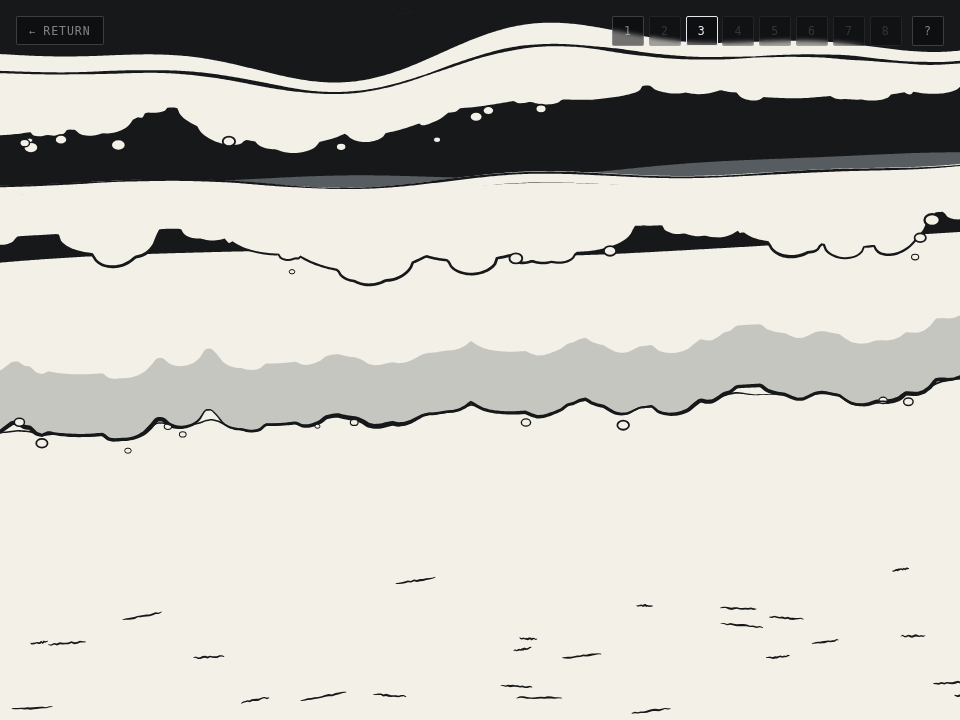
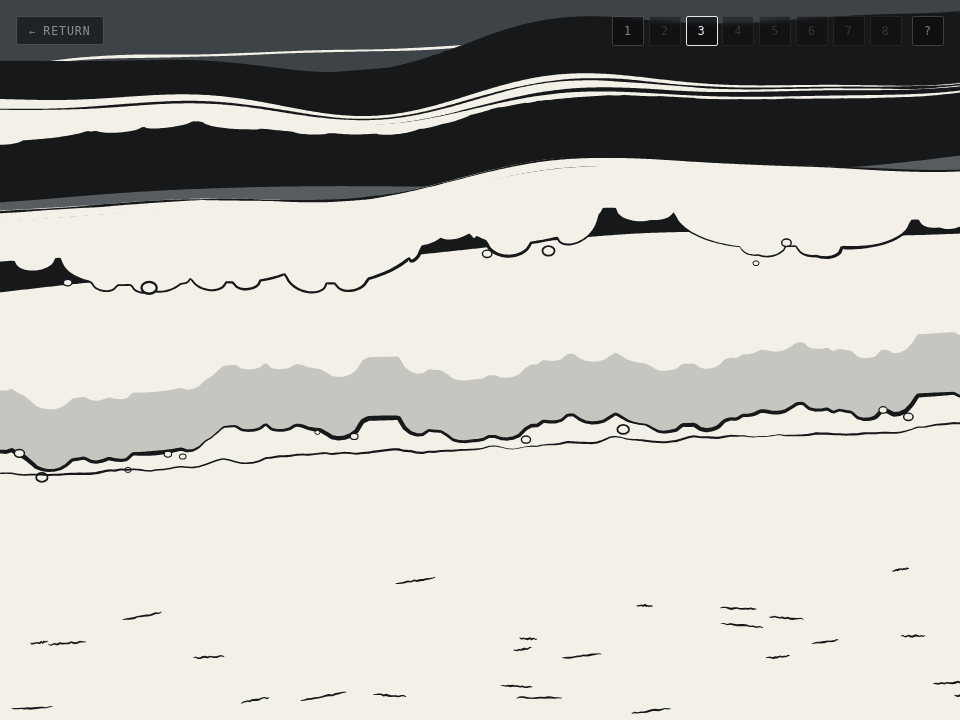
fix(docs): the composition table did not reproduce, and now it is an instrument
The figures in section 8 were quoted as exact and were not reproducible.
`scene.html` seeds from `Date.now()` when it is given no `?seed=`, so every
run is a different sea: the table read 44.7% ink against 67.8% on the run it
was written from, and 39.4 against 72.7 on the next.

`tools/shot-beach-break.mjs` is that measurement, promoted out of a session
scratch file and seeded. THREE SEEDS x 24 pumped moments each, with the RANGE
ACROSS SEEDS printed beside every mean, because one sea is one draw:

  BREAK_S            ink %             paper %          broken of 3.8
  [0.115, 0.020]    38.6 [37.5-39.8]  49.0 [44.8-53.4]      3.3   as it shipped
  [0.180, 0.085]    49.5 [48.5-50.8]  38.9 [34.6-42.3]      2.8
  [0.230, 0.135]    58.3 [56.9-59.4]  30.2 [26.1-33.1]      2.4
  [0.300, 0.205]    70.6 [69.5-72.3]  17.8 [15.2-19.5]      1.8   ships

The trend is far outside the spread, so the finding stands and the ruling's
two criteria still pull against each other by about the same amount. What was
wrong was the precision claimed for it. The three renders are re-taken from
seed 7, the first of the three the table averages, so the pictures and the
numbers are the same run.

It took two passes to get the sampling right and both are in the tool's own
header: the first read ONE moment and reported a 6-wave state against a
4-wave one, which is measuring which waves happened to be alive; the second
averaged 24 moments and still did not reproduce because nothing was seeded.
[…]

diff --git a/docs/beach-drawing-layer.md b/docs/beach-drawing-layer.md
@@ -346,15 +346,24 @@ predicted.
    linear in s between the break and the waterline — so **the foam region IS
    `[breakS, WATERLINE_S]`**. Moving the break shoreside shortens it in exactly
    the same proportion as it lowers the curl: the two are one dial, not two.
-   Measured over 24 pumped moments at 960x720, of the WAVE ZONE (top of frame
-   down to the waterline):
+   `node tools/shot-beach-break.mjs <dir>` is the instrument and it prints this
+   table. **SAMPLING: three seeds x 24 pumped moments each, at 960x720**, of
+   the WAVE ZONE (top of frame down to the waterline); the bracket is the
+   range across seeds.
 
-   | `BREAK_S` | curl at s | ink % | paper % | waves broken, of ~3.9 drawn |
+   | `BREAK_S` | curl at s | ink % | paper % | broken, of 3.8 drawn |
    |---|---|---|---|---|
-   | `[0.115, 0.020]` (as it shipped) | 0.202 | 44.7 | 47.7 | 3.3 |
-   | `[0.180, 0.085]` | 0.247 | 48.5 | 37.4 | 2.8 |
-   | `[0.230, 0.135]` | 0.297 | 62.4 | 30.3 | 2.6 |
-   | **`[0.300, 0.205]` (ships)** | **0.331** | **67.8** | **16.4** | **1.4** |
+   | `[0.115, 0.020]` (as it shipped) | 0.202 | 38.6 [37.5–39.8] | 49.0 [44.8–53.4] | 3.3 |
+   | `[0.180, 0.085]` | 0.247 | 49.5 [48.5–50.8] | 38.9 [34.6–42.3] | 2.8 |
+   | `[0.230, 0.135]` | 0.297 | 58.3 [56.9–59.4] | 30.2 [26.1–33.1] | 2.4 |
+   | **`[0.300, 0.205]` (ships)** | **0.331** | **70.6 [69.5–72.3]** | **17.8 [15.2–19.5]** | **1.8** |
+
+   **THE SPREAD IS WHY IT IS THERE.** A first cut of this table quoted single
+   figures — 44.7% ink against 67.8% — from a run with no `?seed=`, and
+   `scene.html` seeds from `Date.now()` when it is given none, so every run is
+   a different sea and those numbers did not reproduce (the next run read 39.4
+   against 72.7). The trend is far outside the spread; the individual figures
+   were not reproducible and are corrected here.
 
    A wave is unbroken for **77% of its seaward life** now, against 35% before —
    13.6 s of approach against 4.0 s of foam, where it was 6.2 s against 11.4 s.
@@ -370,7 +379,8 @@ predicted.
 
    ![as it shipped](img/beach-break-as-shipped.png)
    *`[0.115, 0.020]` — the composition Eva objected to. Three separate events
-   down the frame, and the curl at s 0.202 is the top one.*
+   down the frame, and the curl at s 0.202 is the top one. Seed 7, the first
+   of the three the table averages.*
 
    ![balanced](img/beach-break-balanced.png)
    *`[0.230, 0.135]` — the curl mid-frame with open water above it. Not what
@@ -378,7 +388,7 @@ predicted.
 
    ![shoreside](img/beach-break-shoreside.png)
    *`[0.300, 0.205]`, which ships. The curl is where it was asked for and the
-   sea above it is a black mass: 16.4% paper against 47.7%.*
+   sea above it is a black mass: 17.8% paper against 49.0%.*
 
    **WHAT WOULD DECOUPLE THEM** is drawing a wave PAST the waterline so its
    foam runs up the beach — which is the hand-over to the swash, and that is
